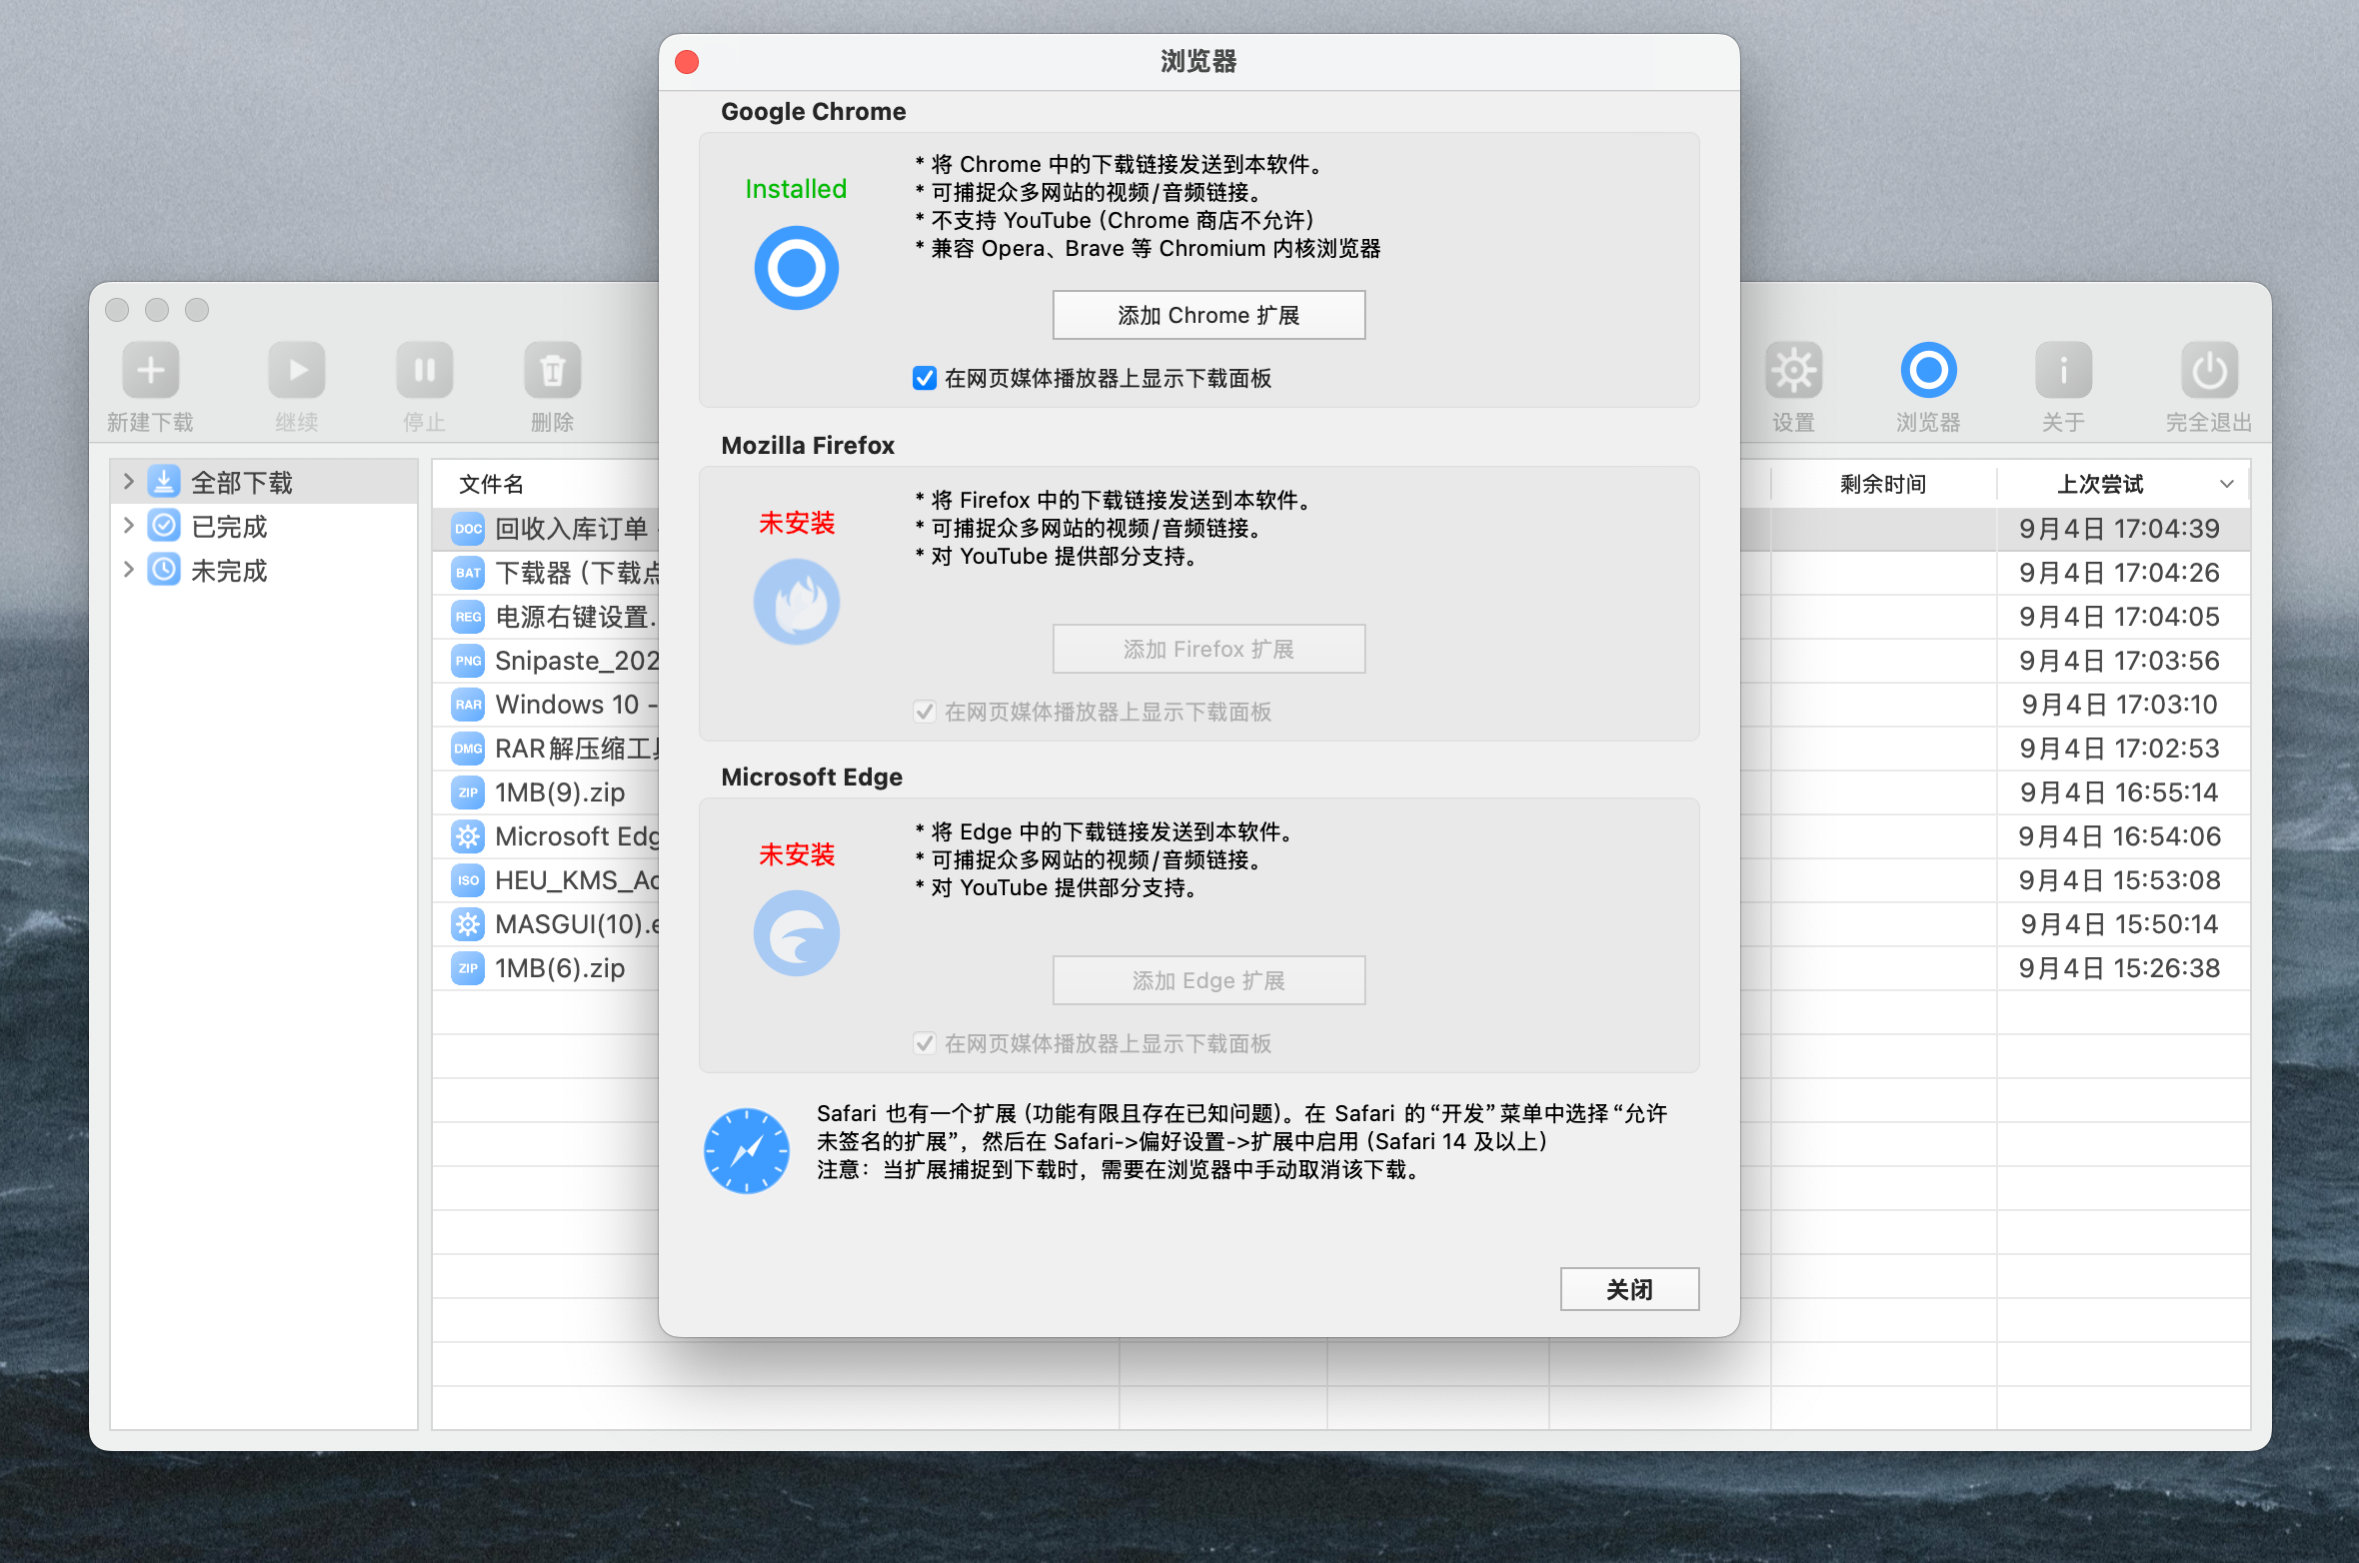
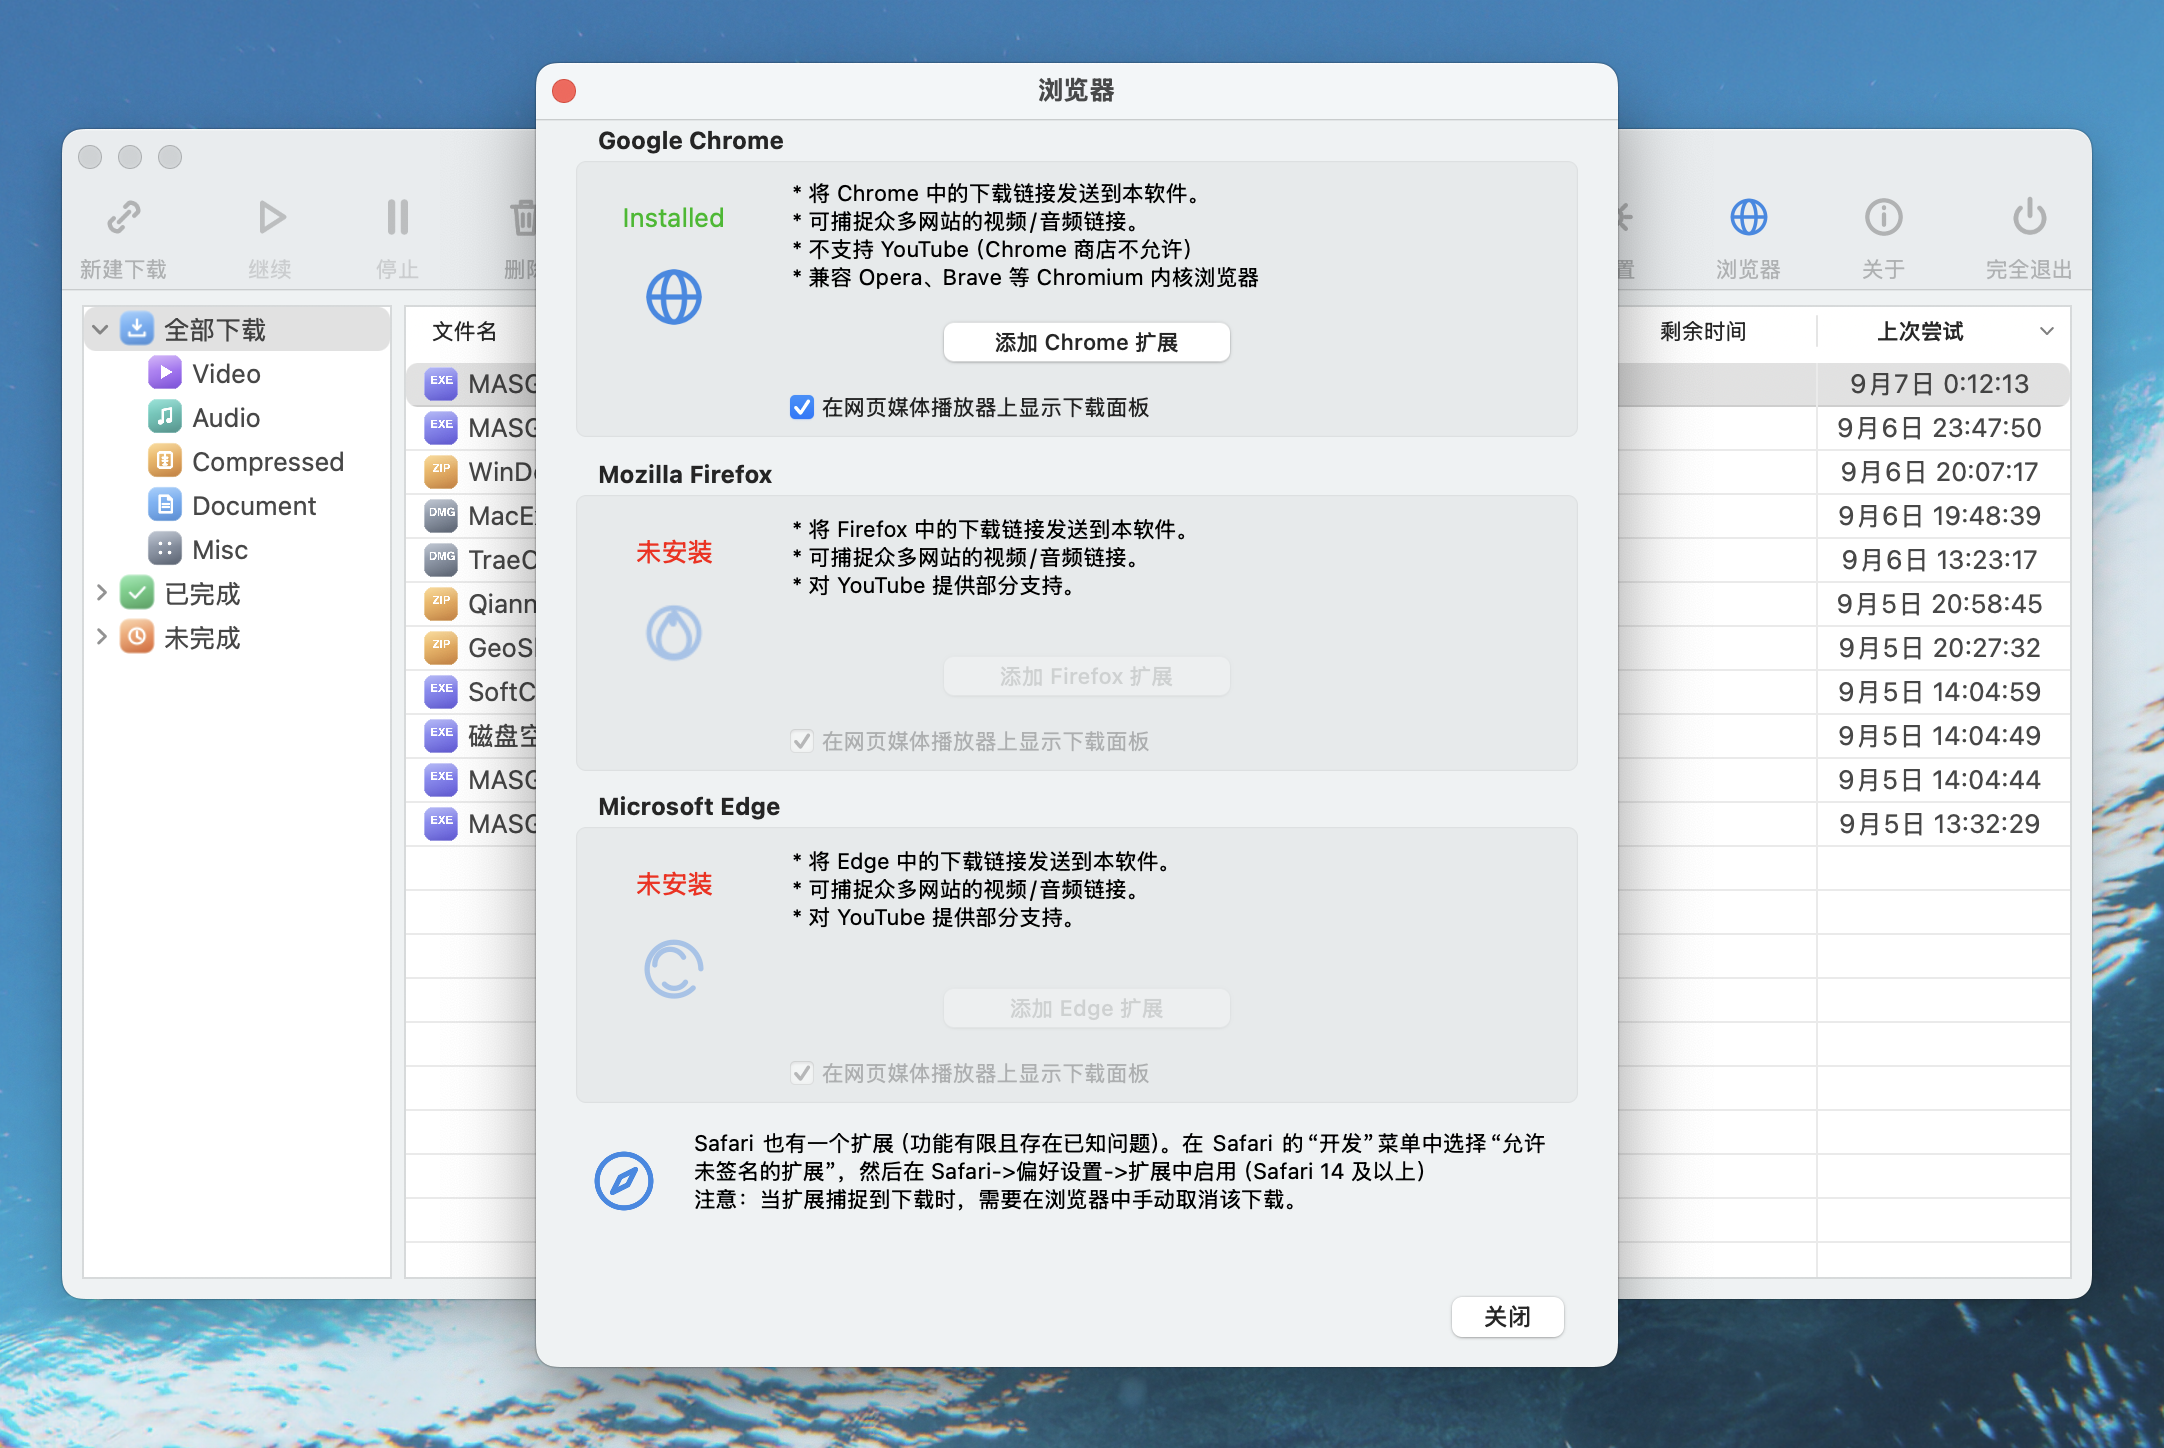
docs: v2 完美 Mac 原生 UI 风格——更新全部实拍截图
- 新增：主界面/设置/浏览器扩展/退出确认/下载确认/下载进度 六张实拍
- 删除：旧版 all_icons/blue_progress/download_active/download_done/list_rows
- README 增加 v2 更新说明（重绘全部图标 + 按钮/编辑框/进度条改造）

diff --git a/README.md b/README.md
@@ -2,6 +2,8 @@
 
 macOS 版 NeatDownloadManager 2 美化工具集：蓝色主题改造 + 全格式自定义图标 + 二进制补丁脚本。
 
+> **v2 更新 — 完美 Mac 原生 UI 风格**：重绘了全部图标（工具栏 / 侧边栏 / 状态栏 / 浏览器 / 30+ 扩展名徽章），并全面改造按钮、编辑框、进度条、复选框、列表选中行——统一圆角胶囊 + hover 微交互 + `#3D9BFF` 强调色，视觉与原生 macOS 应用无异。
+
 > **免责声明**：本仓库不包含、也不分发 NeatDownloadManager 的任何二进制文件或原始资源。所有脚本仅供学习研究，请自行合法获取正软件，修改风险自负。
 
 ## 功能一览
@@ -20,20 +22,14 @@ macOS 版 NeatDownloadManager 2 美化工具集：蓝色主题改造 + 全格式
 
 ## 截图
 
-### 改造效果
-
-![全格式图标](screenshots/all_icons.png)
-![下载列表实测](screenshots/list_rows.png)
-![蓝色进度条](screenshots/blue_progress.png)
-
-### 界面实拍（汉化版）
+### 界面实拍（汉化版 · v2 完美 Mac 原生 UI 风格）
 
 ![主界面](screenshots/main_window.png)
-![设置-常规](screenshots/settings_general.png)
+![设置窗口](screenshots/settings_general.png)
 ![浏览器扩展](screenshots/browser_extensions.png)
 ![完全退出确认](screenshots/quit_dialog.png)
-![下载进行中](screenshots/download_active.png)
-![下载完成](screenshots/download_done.png)
+![下载前确认窗](screenshots/download_confirm.png)
+![下载进度窗](screenshots/download_progress.png)
 
 ## 目录结构
 
